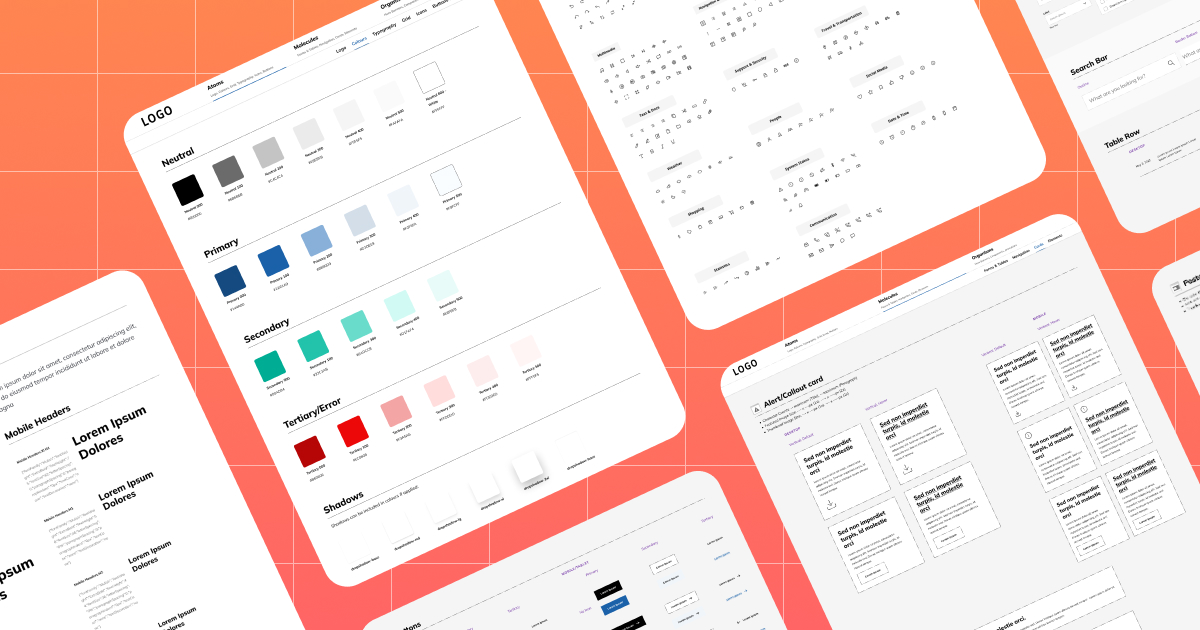
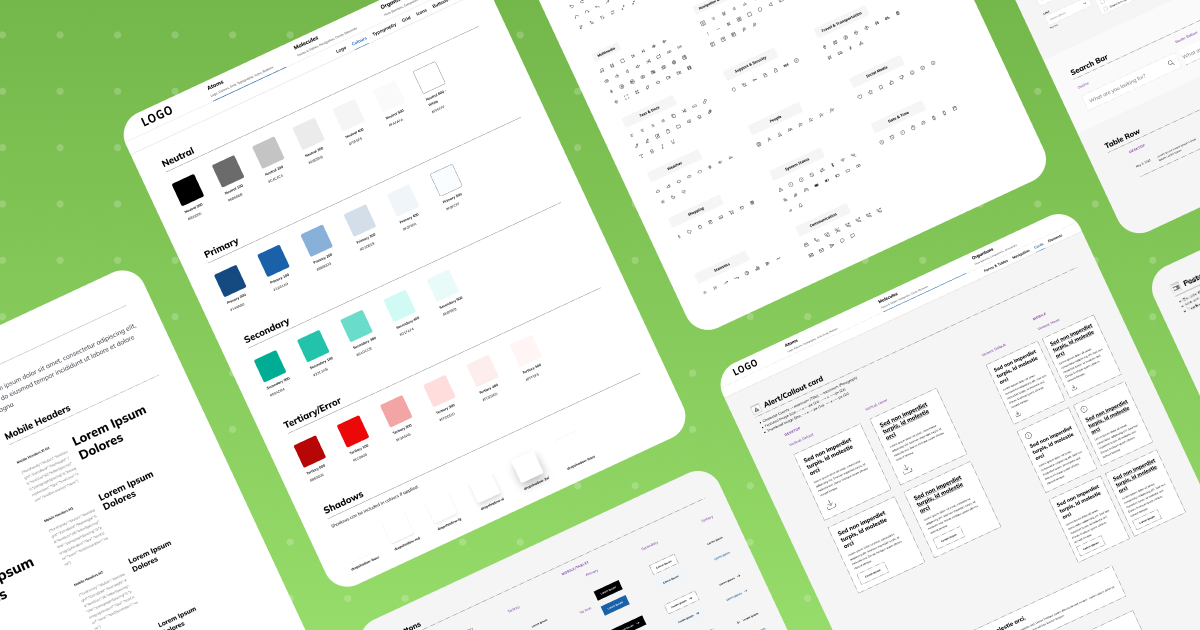
update EWD open graph image

Changed region(s): [[0.0, 0.0, 1.0, 1.0]]

diff --git a/EWDesignSystem.html b/EWDesignSystem.html
@@ -19,7 +19,7 @@
   <meta property="og:title" content="Improving Internal Design System" />
   <meta property="og:description"
     content="Improving a design agency's internal design system to increase designer and developer productivity." />
-  <meta property="og:image" content="https://i.imgur.com/0nDQBhE.jpg" />
+  <meta property="og:image" content="https://i.imgur.com/uTbs4B1.jpeg" />
 
   <!-- Twitter -->
   <meta property="twitter:card" content="summary_large_image" />
@@ -27,7 +27,7 @@
   <meta property="twitter:title" content="Improving Internal Design System" />
   <meta property="twitter:description"
     content="Improving a design agency's internal design system to increase designer and developer productivity." />
-  <meta property="twitter:image" content="https://i.imgur.com/0nDQBhE.jpg" />
+  <meta property="twitter:image" content="https://i.imgur.com/uTbs4B1.jpeg" />
 
   <link rel="stylesheet" type="text/css" href="styles/style.css" />
   <link rel="stylesheet" type="text/css" href="styles/global.css" />
